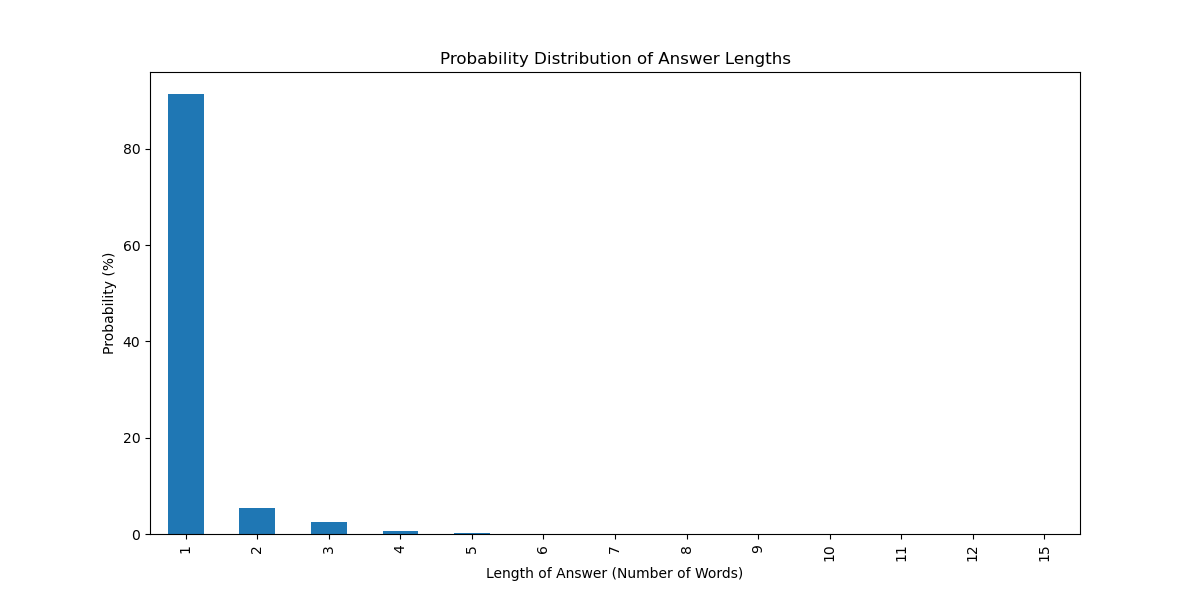
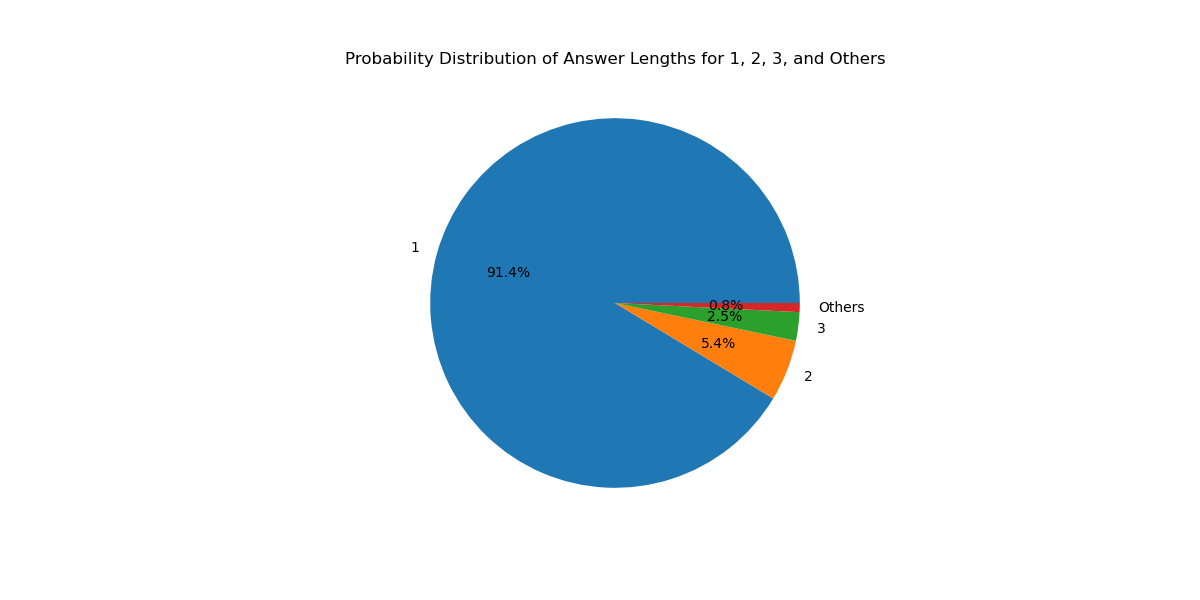
data visualization update

diff --git a/444Data Visualization/Question_type.py b/444Data Visualization/Question_type.py
@@ -1,44 +1,53 @@
 import json
-import matplotlib.pyplot as plt
 from collections import Counter
 import pandas as pd
+import matplotlib.pyplot as plt
+import numpy as np
 
 
 json_file_path = '/Users/yuansu/Desktop/CS444-VQA/input_dir/Questions/filtered_train2017_questions.json'
 
-
-
 with open(json_file_path, 'r') as file:
     data = json.load(file)
-
 
 questions = [item['question'] for item in data['questions']]
 
 
 def get_question_type(question):
-    first_word = question.split()[0].lower()
-   
-    if first_word == 'how' and 'many' in question.split():
-        return 'how many'
-   
-    elif first_word in ['is','are','Does','Do']:
-        return 'yes/no'
-    elif first_word in ['what', 'who', 'where', 'when', 'why']:
-        return first_word
-    else:
-        return None
 
-question_types = filter(None, map(get_question_type, questions))
+    question = question.lower().strip().replace('?', '').replace('.', '')
 
+    question_types = [
+        ('what is',), ('what color',), ('what kind',), ('what type',), 
+        ('what does',), ('what time',), ('what sport',), ('what animal',), 
+        ('what brand',), ('is this',), ('is there',), ('how many',), ('are',),('does',),
+        ('where',), ('why',), ('which',), ('do',), ('who',)
+    ]
+    for q_type in question_types:
+        if question.startswith(q_type):
+            return ' '.join(q_type)
+    return 'other'
 
-
-
+question_types = [get_question_type(q) for q in questions]
 
 type_counts = Counter(question_types)
-
 
 df_counts = pd.DataFrame(type_counts.items(), columns=['Question Type', 'Count']).sort_values(by='Count', ascending=False)
 print(df_counts)
 
 
+plt.figure(figsize=(14, 8))
+bars = plt.bar(df_counts['Question Type'], df_counts['Count'], color=plt.cm.Paired(np.arange(len(df_counts['Question Type']))))
 
+plt.ylabel('Counts')
+plt.xlabel('Question Types')
+plt.title('Counts of Questions by Type')
+plt.xticks(rotation=45, ha='right')
+
+
+for bar in bars:
+    yval = bar.get_height()
+    plt.text(bar.get_x() + bar.get_width()/2, yval + 10, yval, ha='center', va='bottom')
+
+plt.tight_layout()
+plt.show()

diff --git a/444Data Visualization/Answer_Type.py b/444Data Visualization/Answer_Type.py
@@ -5,62 +5,48 @@ import pandas as pd
 
 
 json_file_path = '/Users/yuansu/Desktop/CS444-VQA/input_dir/Annotations/filtered_train2017_annotations.json'
-
 with open(json_file_path, 'r') as file:
     answer_data = json.load(file)
     
     
-def get_answer_type(answer):
-
-
+def get_answer_type_and_example(answer):
     if answer.isdigit():
-        return 'numeric'
-    # the answer is 'yes' or 'no'
+        return 'Number', answer
     elif answer.lower() in ['yes', 'no']:
-        return 'yes/no'
-    # the answer is a single word but not 'yes' or 'no'
+        return 'Yes/No', answer
     elif len(answer.split()) == 1:
-        return 'one word'
-    # phrase
+        return 'One Word', answer
     else:
-        return 'phrase'
-    
-        # numeric
-    if answer.isdigit():
-        return 'numeric'
-    # If the answer is 'yes' or 'no'
-    elif answer.lower() in ['yes', 'no']:
-        return 'yes/no'
-    else:
-        return 'Other'
+        return 'Multi Words', answer
 
+categories = []
+examples = []
 
-
-categories = [get_answer_type(ans['answer']) for ann in answer_data['annotations'] for ans in ann['answers']]
-
+for ann in answer_data['annotations']:
+    for ans in ann['answers']:
+        category, example = get_answer_type_and_example(ans['answer'])
+        categories.append(category)
+        if category == 'Multi Words':
+            examples.append(example) 
 
 category_counts = Counter(categories)
-
-
 total_answers = sum(category_counts.values())
-
-
 category_percentages = {category: (count / total_answers) * 100 for category, count in category_counts.items()}
-
-
 df_percentages = pd.DataFrame(list(category_percentages.items()), columns=['Type', 'Percentage'])
 
 print(df_percentages)
 
-    
-df_percentages.plot(kind='bar', x='Type', y='Percentage')
+
+df_percentages.plot(kind='bar', x='Type', y='Percentage', figsize=(10, 6))  
 plt.title('Percentage of Each Answer Type')
 plt.xlabel('Type')
 plt.ylabel('Percentage')
+plt.xticks(rotation=45, ha='right')  
+plt.tight_layout()  
+
+
 plt.show()
-    
-    
-    
 
 
-   
+
+

diff --git a/444Data Visualization/Answers.py b/444Data Visualization/Answers.py
@@ -19,40 +19,29 @@ df_answers = pd.DataFrame({
     'Length': answers_lengths
 })
 
-length_distribution = df_answers['Length'].value_counts().sort_index()
 
+
+df_answers['Category'] = df_answers['Length'].map({1: '1', 2: '2', 3: '3'}).fillna('Others')
+length_distribution = df_answers['Category'].value_counts().sort_index()
 length_distribution_percentage = (length_distribution / length_distribution.sum()) * 100
+
+
+
+
+plt.figure(figsize=(12, 6))
+length_distribution_percentage.plot(kind='pie', autopct='%1.1f%%', labels=length_distribution_percentage.index)
+plt.title('Probability Distribution of Answer Lengths for 1, 2, 3, and Others')
+plt.ylabel('') 
+plt.show()
 
 
 print("Probability Distribution of Answer Lengths (in %):")
 print(length_distribution_percentage)
 
+
+
+
 word_freq = pd.Series(' '.join(all_answers).split()).value_counts()
-
-plt.figure(figsize=(12, 6))
-word_freq.head(20).plot(kind='bar')
-plt.title('Top 20 Most Frequent Words in Answers')
-plt.xlabel('Words')
-plt.ylabel('Frequency')
-plt.show()
-
-# Plotting answer length distribution
-#plt.figure(figsize=(12, 6))
-#df_answers['Length'].hist(bins=30)
-#plt.title('Distribution of Answer Lengths')
-#plt.xlabel('Length of Answer (Number of Words)')
-#plt.ylabel('Frequency')
-#plt.show()
-
-# Plotting the probability distribution of answer lengths
-plt.figure(figsize=(12, 6))
-length_distribution_percentage.plot(kind='bar')
-plt.title('Probability Distribution of Answer Lengths')
-plt.xlabel('Length of Answer (Number of Words)')
-plt.ylabel('Probability (%)')
-plt.show()
-
-
 
 # Creating a word cloud 
 wordcloud = WordCloud(width=800, height=400, background_color='white').generate(' '.join(all_answers))

diff --git a/444Data Visualization/phrase.py b/444Data Visualization/phrase.py
@@ -1,0 +1,49 @@
+import json
+from collections import Counter
+import pandas as pd
+import matplotlib.pyplot as plt
+
+answers_json_path = '/Users/yuansu/Desktop/CS444-VQA/input_dir/Annotations/filtered_train2017_annotations.json'
+questions_json_path = '/Users/yuansu/Desktop/CS444-VQA/input_dir/Questions/filtered_train2017_questions.json'
+
+with open(answers_json_path, 'r') as file:
+    answer_data = json.load(file)
+
+question_id_to_text = {}
+with open(questions_json_path, 'r') as file:
+    question_data = json.load(file)
+    for item in question_data['questions']: 
+        question_id_to_text[item['question_id']] = item['question']
+
+
+def get_answer_details(answer, question_id):
+
+    if answer.isdigit():
+        answer_type = 'numeric'
+    elif answer.lower() in ['yes', 'no']:
+        answer_type = 'yes/no'
+    elif len(answer.split()) == 1:
+        answer_type = 'one word'
+    else:
+        answer_type = 'multi words'
+        
+    question_text = question_id_to_text.get(question_id, "Question not found")
+
+    return answer_type, answer, question_text
+
+
+
+multi_word_answer_details = []
+
+for ann in answer_data['annotations']:
+    question_id = ann['question_id']  
+    for ans in ann['answers']:
+        answer_type, answer, question_text = get_answer_details(ans['answer'], question_id)
+        if answer_type == 'multi words':
+            multi_word_answer_details.append((answer, question_text))  
+
+for answer, question_text in multi_word_answer_details:
+    print(f"Answer: {answer} \nQuestion: {question_text}\n")
+
+
+

diff --git a/444Data Visualization/data_visualize.py b/444Data Visualization/data_visualize.py
@@ -26,7 +26,7 @@ def get_question_type(question):
     elif first_word in ['what', 'who', 'where', 'when', 'why']:
         return first_word
     else:
-        return None
+        return 'Others'
 
 question_types = filter(None, map(get_question_type, questions))
 
